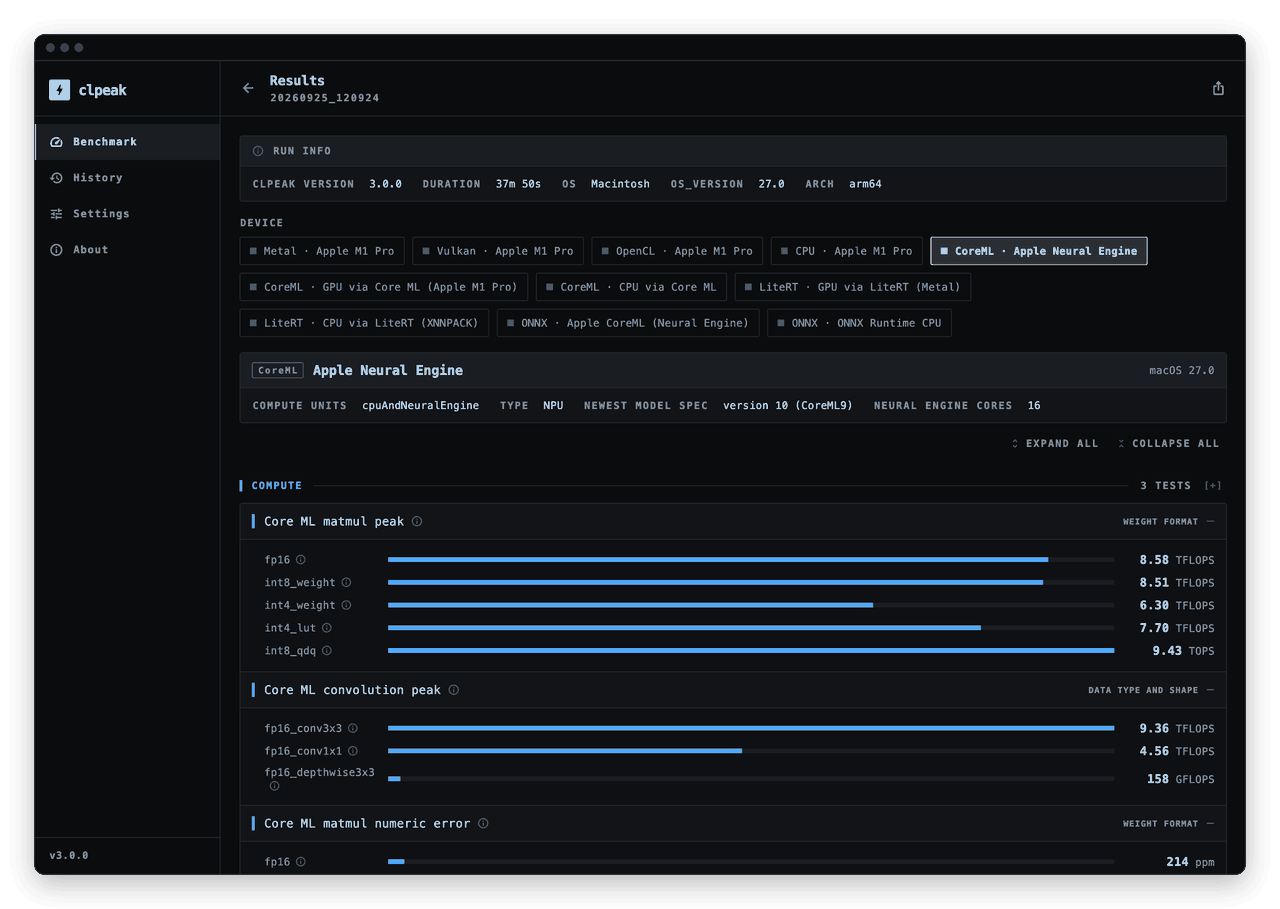
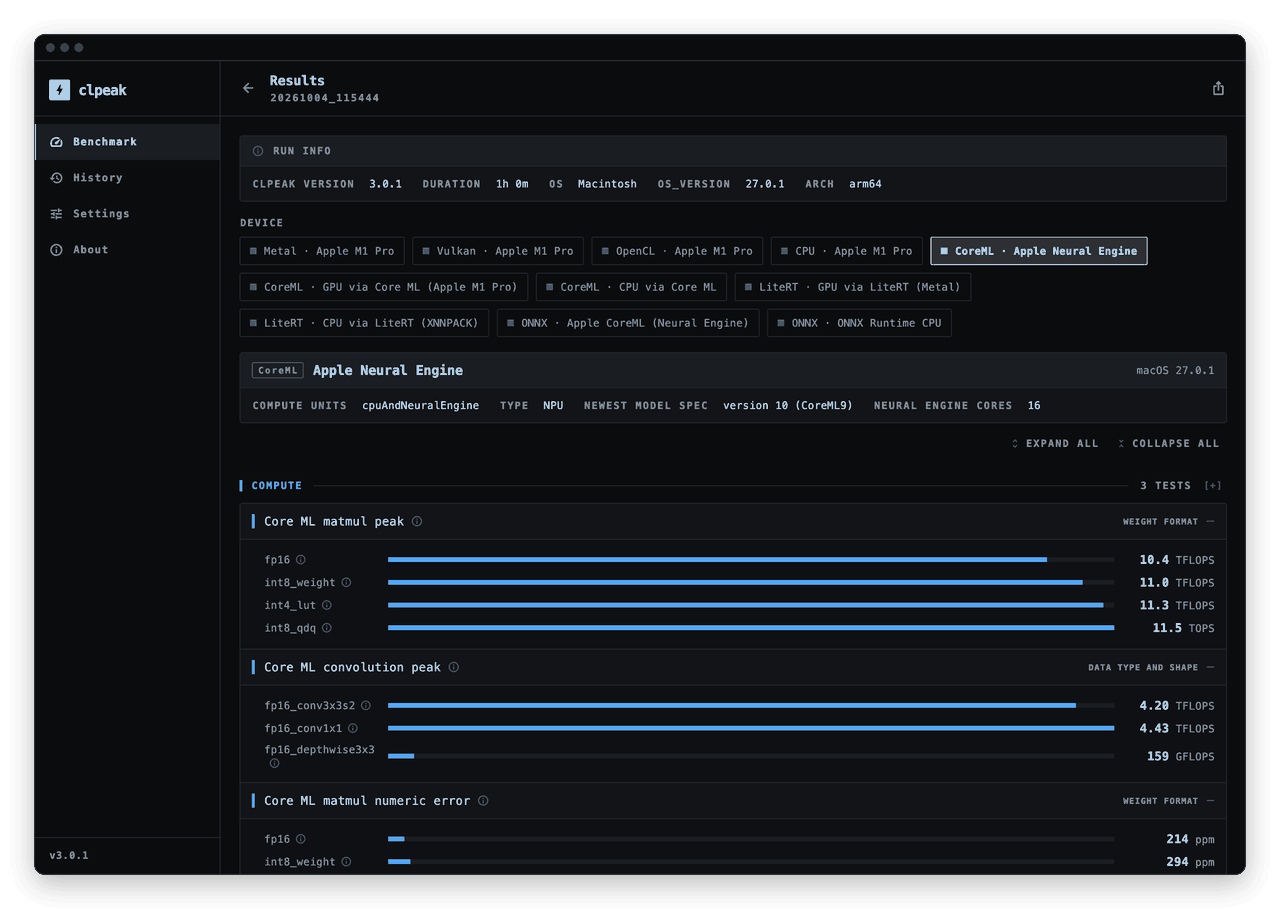
[docs] update to latest numbers

diff --git a/app/integration_test/screenshots_test.dart b/app/integration_test/screenshots_test.dart
@@ -15,7 +15,7 @@
 //
 //   CLPEAK_SHOTS_OUT      where the raw PNGs go (required)
 //   CLPEAK_SHOTS_REPO     the repository root (required)
-//   CLPEAK_SHOTS_VERSION  the version label on the shots (default: 3.0.0)
+//   CLPEAK_SHOTS_VERSION  the version label on the shots (default: 3.0.1)
 import 'dart:convert';
 import 'dart:ffi' hide Size;
 import 'dart:io';
@@ -44,7 +44,7 @@ import 'package:shared_preferences/shared_preferences.dart';
 final _env = Platform.environment;
 final _outDir = _env['CLPEAK_SHOTS_OUT'] ?? '';
 final _repo = _env['CLPEAK_SHOTS_REPO'] ?? '';
-final _version = _env['CLPEAK_SHOTS_VERSION'] ?? '3.0.0';
+final _version = _env['CLPEAK_SHOTS_VERSION'] ?? '3.0.1';
 
 /// The desktop app's default window (app/AGENTS.md), captured at 2x.
 const _desktop = Size(1280, 860);
@@ -236,11 +236,11 @@ void main() {
     final catalog = BackendCatalog.fromJson(catalogJson);
     final bindings = _StubBindings(catalogJson);
 
-    final m1 = _run('results/Apple/M1_Pro.json', '20260925_120924');
+    final m1 = _run('results/Apple/M1_Pro.json', '20261004_115444');
     final rtx =
-        _run('results/Nvidia/GeForce_RTX_5060.json', '20260924_152237');
+        _run('results/Nvidia/GeForce_RTX_5060.json', '20261004_115639');
     final tr = _run('results/AMD/Ryzen_Threadripper_PRO_3955WX_16_Cores.json',
-        '20260924_153931');
+        '20261004_124441');
 
     BenchmarkService svc(
             [({RunDocument document, RunSummary summary})? run]) =>

diff --git a/README.md b/README.md
@@ -42,11 +42,11 @@ Backend: CUDA
       int8     : 84.7 TOPS
     cuBLASLt GEMM peak
       fp16     : 79.1 TFLOPS
-      nvf4_e2m1 : 301 TFLOPS
+      nvf4_e2m1 : 300 TFLOPS
     Global memory bandwidth
       float4   : 420 GB/s
     Kernel launch latency
-      roundtrip : 6.68 us
+      roundtrip : 6.35 us
 ```
 
 ```text
@@ -54,15 +54,15 @@ $ clpeak --devices coreml:0
 Backend: CoreML
   Device 0: Apple Neural Engine
     Core ML matmul peak
-      fp16     : 8.58 TFLOPS
-      int4_lut : 7.70 TFLOPS
-      int8_qdq : 9.43 TOPS
+      fp16     : 10.4 TFLOPS
+      int4_lut : 11.3 TFLOPS
+      int8_qdq : 11.5 TOPS
     Transformer block, prefill
-      fp16_s512 : 4.95 TFLOPS
+      fp16_s512 : 4.99 TFLOPS
     Transformer block, decode
-      fp16_kv2048 : 43.3 GB/s
+      fp16_kv2048 : 43.2 GB/s
     Core ML dispatch latency
-      trivial_op : 769 us
+      trivial_op : 781 us
 ```
 
 More screenshots are on the [project page](https://krrishnarraj.github.io/clpeak/).
